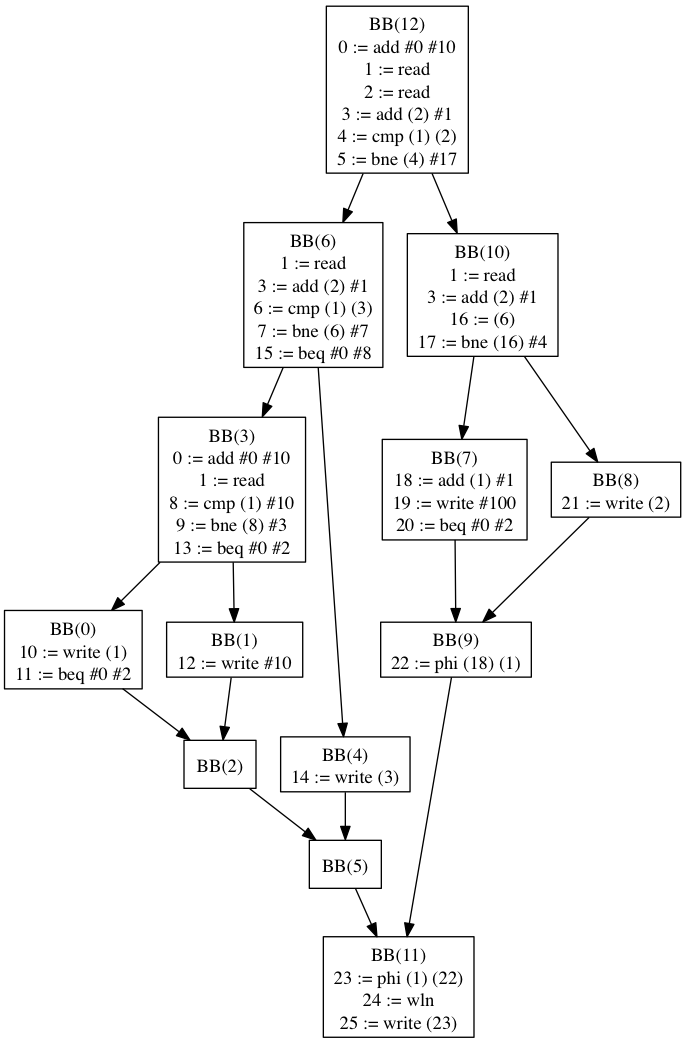
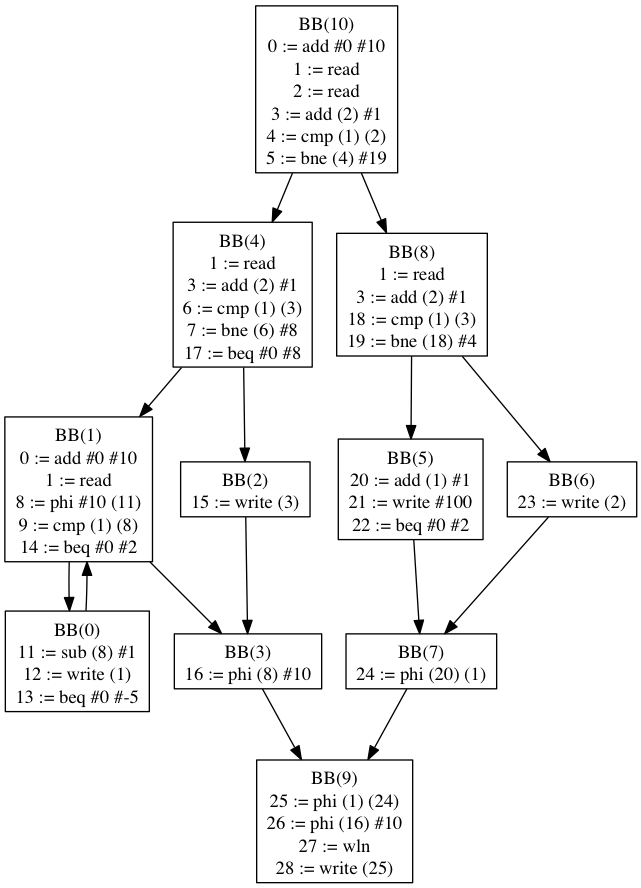
Updated PHI generation things

diff --git a/project/src/com/uci/cs241/pl241/frontend/PLParser.java b/project/src/com/uci/cs241/pl241/frontend/PLParser.java
@@ -13,9 +13,6 @@ import com.uci.cs241.pl241.ir.PLStaticSingleAssignment;
 
 public class PLParser
 {
-	// NODES
-	// SUBCLASSES: assignment, func/proc, array, block, designator, functionblock, load/store, main, param 
-	
 	// Current symbol/token values used for parsing
 	private String sym;
 	private int toksym;
@@ -402,7 +399,12 @@ public class PLParser
 			PLIRInstruction rightValue = rightNode.instructions.get(rightNode.instructions.size() - 1);
 			PLIRInstructionType opcode = operator == PLToken.plusToken ? PLIRInstructionType.ADD : PLIRInstructionType.SUB;
 			
+			if (opcode == PLIRInstructionType.SUB)
+			{
+				int x = 0;
+			}
 			PLIRInstruction exprInst = new PLIRInstruction(scope, opcode, leftValue, rightValue);
+			exprInst.overrideGenerate = true; 
 			exprInst.forceGenerate(scope);
 			debug("forcing generation of: " + exprInst);
 			exprNode.addInstruction(exprInst);
@@ -454,8 +456,6 @@ public class PLParser
 		relation.addInstruction(leftInst);
 		relation.addInstruction(rightInst);
 		relation.addInstruction(inst);
-		
-		// 
 		
 		// Save whatever values are used in these expressions
 		// TODO: need a merge BBs method
@@ -938,32 +938,9 @@ public class PLParser
 			// Build the BB of the statement sequence
 			PLIRBasicBlock body = parse_statSequence(in);
 			entry.joinNode = entry;
-//			PLIRBasicBlock exit = new PLIRBasicBlock();
 			
 			PLIRInstruction cmpInst = entry.instructions.get(entry.instructions.size() - 1);
 			bgeInst.op1 = cmpInst;
-//			if (body.exitNode == null)
-//			{
-//				entry.children.add(body);
-//				body.children.add(entry);
-////				entry.children.add(exit);
-//				entry.joinNode = entry; // the entry is itself the join node for a while loop (see paper)
-////				entry.exitNode = entry; // exit is the fall through branch, second child (see paper)
-//			}
-//			else
-//			{
-//				entry.children.add(body.exitNode);
-//				body.exitNode.children.add(entry);
-////				entry.children.add(exit);
-//				entry.joinNode = entry; // the entry is itself the join node for a while loop (see paper)
-////				entry.exitNode = entry; // exit is the fall through branch, second child (see paper)
-//			}
-			
-			// Create the exit block and hook it in along with the join node
-//			body.children.add(exit);
-//			entry.children.add(exit);
-//			entry.joinNode = entry; // the entry is itself the join node for a while loop (see paper)
-//			entry.exitNode = exit; // exit is the fall through branch, second child (see paper)
 			
 			scope.popScope();
 			blockDepth--;
@@ -980,19 +957,6 @@ public class PLParser
 			{
 				modded.add(i1);
 			}
-			debug("body modified size = " + body.modifiedIdents.size());
-//			debug("entry used size = " + entry.usedIdents.size());
-//			for (String i2 : entry.usedIdents.keySet())
-//			{
-//				for (String i1 : sharedModifiers)
-//				{
-//					debug("comparing " + i1 + " and " + i2);
-//					if (i1.equals(i2) && filteredModifiers.contains(i2) == false)
-//					{
-//						filteredModifiers.add(i2);
-//					}
-//				}
-//			}
 			debug("(while loop) Inserting " + modded.size() + " phis");
 			for (String var : modded)
 			{
@@ -1036,30 +1000,25 @@ public class PLParser
 				ArrayList<PLIRBasicBlock> visited = new ArrayList<PLIRBasicBlock>();
 				visited.add(entry);
 				body.propogatePhi(var, phi, visited);
-				
-				/*
-				
-				// Now loop through the body and fix instructions as needed
-				// TODO: this can possibly be recursive...?
-				// no, phis at lower layer will replace themselves automatically...
-				debug("past patch");
-				for (PLIRInstruction bInst : body.instructions)
-				{
-					debug("trying: " + bInst.toString());
-					if (bInst.op1 != null && bInst.op1.origIdent.equals(var))
-					{
-						bInst.replaceLeftOperand(phi);
-					}
-					if (bInst.op2 != null && bInst.op2.origIdent.equals(var))
-					{
-						bInst.replaceRightOperand(phi);
-					}
-				}
-				
-				*/
 			}
 			
 			////////////////////////////////////////////
+			
+			// Make BB connections
+			if (body.joinNode != null)
+			{
+				body.joinNode.children.add(entry);
+				body.joinNode.fixSpot();
+				entry.parents.add(body.joinNode);
+			}
+			else
+			{
+				body.children.add(entry);
+				body.fixSpot();
+				entry.parents.add(body);
+			}
+			entry.children.add(body);
+			body.parents.add(entry);
 			
 			// Insert the unconditional branch at (location - pc)
 			PLIRInstruction beqInst = PLIRInstruction.create_BEQ(scope, loopLocation - PLStaticSingleAssignment.globalSSAIndex);
@@ -1071,31 +1030,30 @@ public class PLParser
 			
 			// Configure the dominator tree connections
 			entry.dominatorSet.add(body);
-//			entry.dominatorSet.add(exit);
 			
 			//// TODO: merge here
 			// Merge the block results here
-			entry = PLIRBasicBlock.merge(entry, body);
-			if (body.joinNode != null)
-			{	
-				// Carry over modifications and used
-				for (String sym : entry.modifiedIdents.keySet())
-				{
-					body.joinNode.addModifiedValue(sym, entry.modifiedIdents.get(sym));
-				}
-				for (String sym : entry.usedIdents.keySet())
-				{
-					body.joinNode.addUsedValue(sym, entry.usedIdents.get(sym));
-				}
-				
-				// Carry over to the next node
-				result = body.joinNode;
-			}
-			else
-			{
-				entry.isEntry = true;
-				result = entry;
-			}
+//			entry = PLIRBasicBlock.merge(entry, body);
+//			if (body.joinNode != null)
+//			{	
+//				// Carry over modifications and used
+//				for (String sym : entry.modifiedIdents.keySet())
+//				{
+//					body.joinNode.addModifiedValue(sym, entry.modifiedIdents.get(sym));
+//				}
+//				for (String sym : entry.usedIdents.keySet())
+//				{
+//					body.joinNode.addUsedValue(sym, entry.usedIdents.get(sym));
+//				}
+//				
+//				// Carry over to the next node
+//				result = body.joinNode;
+//			}
+//			else
+//			{
+//				entry.isEntry = true;
+//				result = entry;
+//			}
 			
 			// Check for the closing od token and then eat it
 			if (toksym != PLToken.odToken)
@@ -1105,8 +1063,8 @@ public class PLParser
 			advance(in);
 			
 			// the result of parsing this basic block is the entry node, which doubles as the join and exit node
-//			entry.isEntry = true;
-//			result = entry;
+			entry.isEntry = true;
+			result = entry;
 		}
 		else if (toksym == PLToken.returnToken)
 		{

diff --git a/project/src/com/uci/cs241/pl241/ir/PLIRBasicBlock.java b/project/src/com/uci/cs241/pl241/ir/PLIRBasicBlock.java
@@ -139,7 +139,7 @@ public class PLIRBasicBlock
 	{
 		// propoagate through the main instructions in this block's body
 //		for (PLIRInstruction bInst : instructions)
-		for (PLIRInstruction bInst : carriedInstructions)
+		for (PLIRInstruction bInst : instructions)
 		{
 			System.err.println(bInst.toString());
 			boolean replaced = false;
@@ -149,12 +149,24 @@ public class PLIRBasicBlock
 				bInst.replaceLeftOperand(phi);
 				replaced = true;
 			}
+			if (bInst.op1 != null && bInst.op1.origIdent.equals(var))
+			{
+				bInst.replaceLeftOperand(phi);
+				replaced = true;
+			}
+			
 //			if (bInst.op2 != null && bInst.op2.origIdent.equals(var))
 			if (bInst.op2 != null && (bInst.op2.equals(phi.op1) || bInst.op2.equals(phi.op2)))
 			{
 				bInst.replaceRightOperand(phi);
 				replaced = true;
 			}
+			if (bInst.op2 != null && bInst.op2.origIdent.equals(var))
+			{
+				bInst.replaceRightOperand(phi);
+				replaced = true;
+			}
+			
 			if (replaced && bInst.opcode == PLIRInstructionType.PHI)
 			{
 				break;

diff --git a/project/src/com/uci/cs241/pl241/ir/PLStaticSingleAssignment.java b/project/src/com/uci/cs241/pl241/ir/PLStaticSingleAssignment.java
@@ -37,7 +37,7 @@ public class PLStaticSingleAssignment
 			if (!common)
 			{
 //				table.instTypeMap.get(inst.opcode).add(inst);
-				table.addDominatedInstruction(inst);
+//				table.addDominatedInstruction(inst);
 			}
 		}
 		
